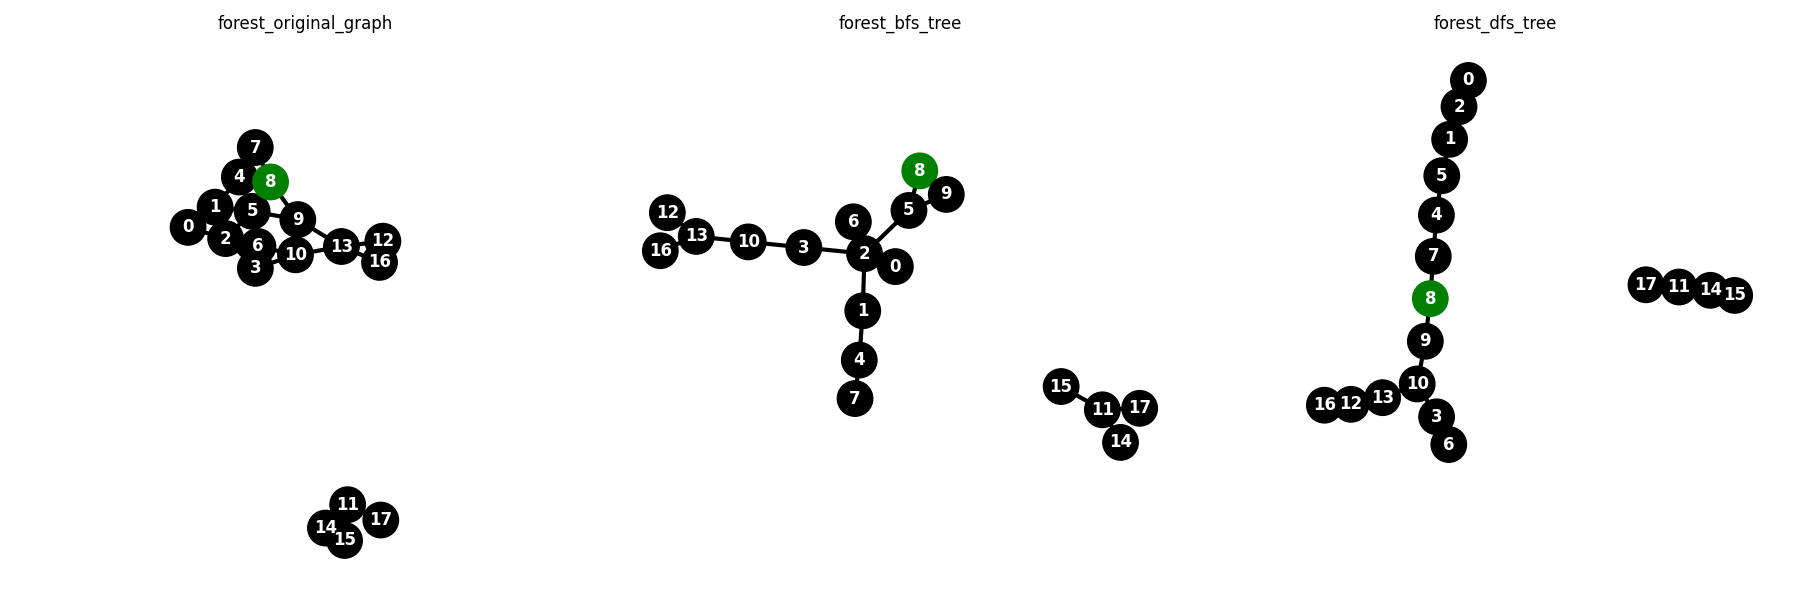
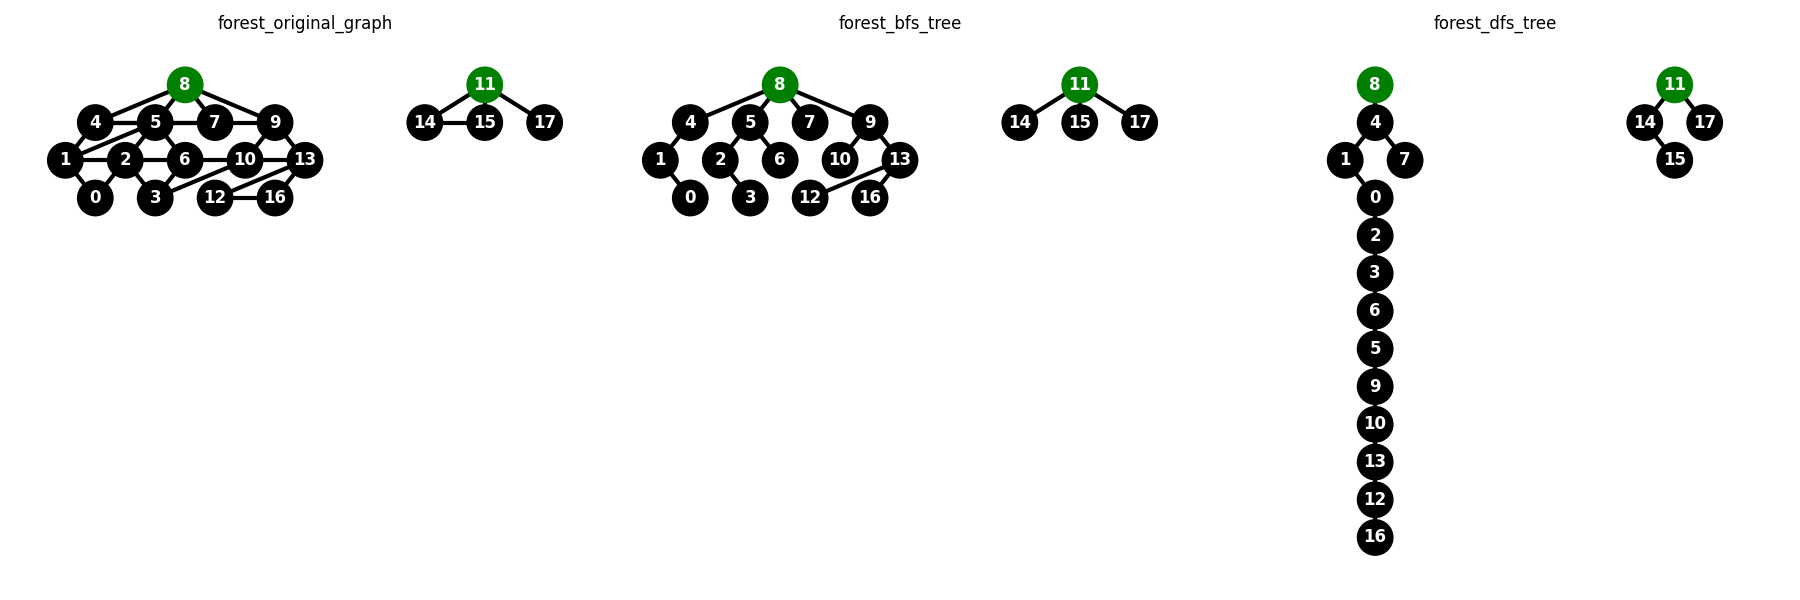
Updating functions to accept forest and adding forest_layout()

diff --git a/main.py b/main.py
@@ -23,6 +23,7 @@ graph_root8 = {
 
 # generate forest
 graph_forest = {
+    8: [4, 5, 7, 9],
     0: [2],
     1: [0, 2, 5, 4],
     2: [0, 1, 3, 5, 6],
@@ -31,7 +32,6 @@ graph_forest = {
     5: [1, 2, 4, 6, 8, 9],
     6: [2, 3, 5, 10],
     7: [4, 8],
-    8: [4, 5, 7, 9],
     9: [5, 8, 10, 13],
     10: [3, 6, 9, 13],
     11: [14, 15, 17],
@@ -136,6 +136,18 @@ def tree_layout(G, root):
 
     return pos
 
+def forest_layout(G, roots):
+    # generate a layout for each tree in the forest and combine them
+    pos = {}
+    x_offset = 0
+    for root in roots:
+        tree_pos = tree_layout(G, root)
+        for node, (x, y) in tree_pos.items():
+            pos[node] = (x + x_offset, y)
+        x_offset += 20 # add some space between trees
+
+    return pos
+
 def petersen_layout():
 
     return {
@@ -155,7 +167,15 @@ def petersen_layout():
         'E1': (-1.5, 0.5)
     }
 
-def get_layout(G, layout_type='spring', root=None):
+def get_layout(G, layout_type='spring', roots=None):
+
+    # take just the first root as a reference for the layout
+    actual_root = None
+    if roots is not None:
+        if isinstance(roots, list):
+            actual_root = roots[0] if len(roots) > 0 else None
+        else:
+            actual_root = roots
 
     # default
     if layout_type is None or layout_type == 'spring':
@@ -163,8 +183,12 @@ def get_layout(G, layout_type='spring', root=None):
 
     # tree
     elif layout_type == 'tree':
-        return tree_layout(G, root)
+        return tree_layout(G, roots[0] if roots is not None else actual_root)
 
+    # forest
+    elif layout_type == 'forest':
+        return forest_layout(G, roots if roots is not None else [actual_root])
+    
     # petersen
     elif layout_type == 'petersen':
         return petersen_layout()
@@ -188,14 +212,17 @@ def generate_graph(graph): # root is the node that starts the tree
 
     return G
 
-def draw_graph(G, root, layout_type=None, image_name=None, ax=None, save=False):
+def draw_graph(G, roots, layout_type=None, image_name=None, ax=None, save=False):
     
     if ax is None:
         fig = plt.figure(num=image_name, figsize=(8,8)) # 'num' --> title shown in the window
         ax = plt.gca() # get current axis
     
-    pos = get_layout(G, layout_type=layout_type, root=root)
-    node_colors = ['green' if node == root else 'black' for node in G.nodes()]
+    if not isinstance(roots, list):
+        roots = [roots] # if roots is not a list, convert it to a list for easier handling
+
+    pos = get_layout(G, layout_type=layout_type, roots=roots)
+    node_colors = ['green' if node in roots else 'black' for node in G.nodes()]
 
     nx.draw(
         G,
@@ -258,7 +285,6 @@ def bfs(graph, root):
                 queue.append(neighbor)
 
     return tree
-
 
 def dfs(graph, root):
     visited = set()
@@ -334,19 +360,34 @@ def spanning_forest(graph, algorithm, roots=None):
         
     return forest, roots
 
-def generate_comparison(G, root, image_name_prefix, layout_type=None):
-    original_nx = generate_graph(G)
-    bfs_nx = generate_graph(bfs(G, root))
-    dfs_nx = generate_graph(dfs(G, root))
+def generate_comparison(G, roots, image_name_prefix, layout_type=None):
+    # original = generate_graph(G)
+    # bfs_nx = generate_graph(bfs(G, root))
+    # dfs_nx = generate_graph(dfs(G, root))
 
-    if layout_type is None:
-        layout_type = 'spring' # default layout
+    # figures, axs = plt.subplots(1, 3, figsize=(18, 6), sharex=True, sharey=True) # figures share the same scale (x,y)
+
+    # draw_graph(original, root, layout_type, f'{image_name_prefix}_original_graph', ax=axs[0])
+    # draw_graph(bfs_nx, root, layout_type, f'{image_name_prefix}_bfs_tree', ax=axs[1])
+    # draw_graph(dfs_nx, root, layout_type, f'{image_name_prefix}_dfs_tree', ax=axs[2])
+    
+    original_nx = generate_graph(G)
+    bfs_dict, bfs_roots = spanning_forest(G, bfs)
+    dfs_dict, dfs_roots = spanning_forest(G, dfs)
+
+    bfs_nx = generate_graph(bfs_dict)
+    dfs_nx = generate_graph(dfs_dict)
+
+    if roots is not None:
+        bfs_roots = [roots] if not isinstance(roots, list) else roots
+        dfs_roots = [roots] if not isinstance(roots, list) else roots
 
     figures, axs = plt.subplots(1, 3, figsize=(18, 6), sharex=True, sharey=True) # figures share the same scale (x,y)
 
-    draw_graph(original_nx, root, layout_type, f'{image_name_prefix}_original_graph', ax=axs[0])
-    draw_graph(bfs_nx, root, layout_type, f'{image_name_prefix}_bfs_tree', ax=axs[1])
-    draw_graph(dfs_nx, root, layout_type, f'{image_name_prefix}_dfs_tree', ax=axs[2])
+    # original can have the roots bfs_roots or dfs_roots as a parameter, since they are the same as the original graph
+    draw_graph(original_nx, bfs_roots, layout_type, f'{image_name_prefix}_original_graph', ax=axs[0])
+    draw_graph(bfs_nx, bfs_roots, layout_type, f'{image_name_prefix}_bfs_tree', ax=axs[1])
+    draw_graph(dfs_nx, dfs_roots, layout_type, f'{image_name_prefix}_dfs_tree', ax=axs[2])
 
     plt.tight_layout()
     figures.savefig(f'images/{image_name_prefix}_comparison.png') # save the figure with all three graphs
@@ -356,24 +397,24 @@ def main():
     generate_comparison(graph_root8, 8, 'root8', 'tree')
 
     print('---------- FOREST ----------')
-    # generate_comparison(graph_forest, 8, 'forest', None)
-    original_nx = generate_graph(graph_forest)
+    # original_nx = generate_graph(graph_forest)
 
-    forest_dict_bfs, bfs_roots = spanning_forest(graph_forest, bfs)
-    bfs_nx = generate_graph(forest_dict_bfs)
+    # forest_dict_bfs, bfs_roots = spanning_forest(graph_forest, bfs)
+    # bfs_nx = generate_graph(forest_dict_bfs)
 
-    forest_dict_dfs, dfs_roots = spanning_forest(graph_forest, dfs)
-    dfs_nx = generate_graph(forest_dict_dfs)
-    # dfs_nx = generate_graph(spanning_forest(graph_forest, dfs, 8))
+    # forest_dict_dfs, dfs_roots = spanning_forest(graph_forest, dfs)
+    # dfs_nx = generate_graph(forest_dict_dfs)
 
-    figures, axs = plt.subplots(1, 3, figsize=(18, 6), sharex=True, sharey=True) # figures share the same scale (x,y)
+    # figures, axs = plt.subplots(1, 3, figsize=(18, 6), sharex=True, sharey=True) # figures share the same scale (x,y)
 
-    draw_graph(original_nx, 8, None, 'forest_original_graph', ax=axs[0])
-    draw_graph(bfs_nx, 8, None, 'forest_bfs_tree', ax=axs[1])
-    draw_graph(dfs_nx, 8, None, 'forest_dfs_tree', ax=axs[2])
+    # draw_graph(original_nx, 8, None, 'forest_original_graph', ax=axs[0])
+    # draw_graph(bfs_nx, bfs_roots, None, 'forest_bfs_tree', ax=axs[1])
+    # draw_graph(dfs_nx, dfs_roots, None, 'forest_dfs_tree', ax=axs[2])
 
-    plt.tight_layout()
-    figures.savefig(f'images/forest_comparison.png') # save the figure with all three graphs
+    generate_comparison(graph_forest, None, 'forest', 'forest')
+
+    # plt.tight_layout()
+    # figures.savefig(f'images/forest_comparison.png') # save the figure with all three graphs
 
     # ---------- PETERSEN GRAPH  ----------
     print('---------- PETERSEN GRAPH ----------')